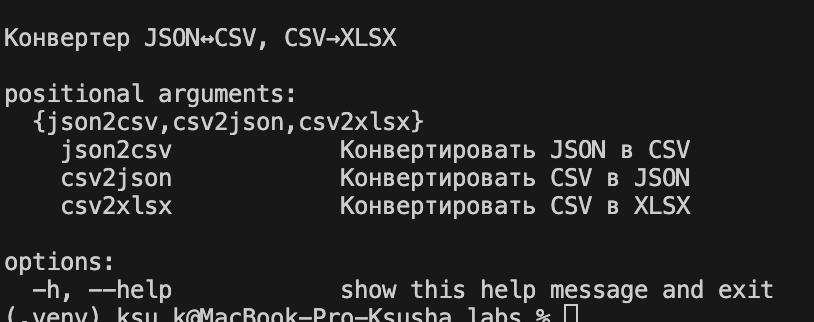
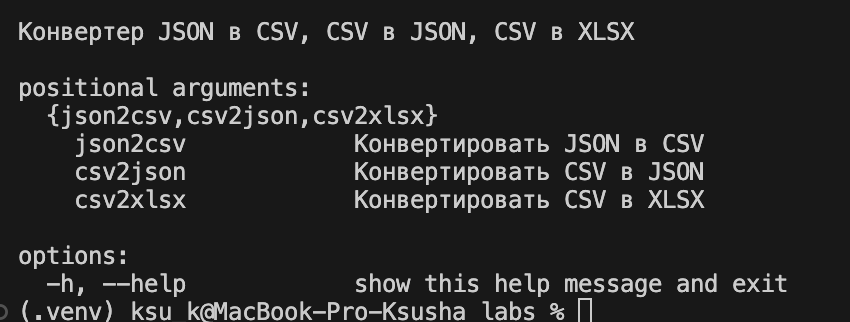
lab

Changed region(s): [[0.0, 0.2484, 0.86, 0.6832], [0.0, 0.7764, 0.9521, 1.0], [0.0, 0.0621, 0.7678, 0.1553]]

diff --git a/src/lab06/cli_convert.py b/src/lab06/cli_convert.py
@@ -19,7 +19,7 @@ except ImportError:
 
 
 def main():
-    parser = argparse.ArgumentParser(description="Конвертер JSON↔CSV, CSV→XLSX")
+    parser = argparse.ArgumentParser(description="Конвертер JSON в CSV, CSV в JSON, CSV в XLSX")
     sub = parser.add_subparsers(dest="cmd")
 
     # json → csv

diff --git a/README.md b/README.md
@@ -771,9 +771,8 @@ except ImportError:
     sys.path.append(os.path.dirname(os.path.dirname(__file__)))
     from lab05.csv_xlsx import *
 
-
 def main():
-    parser = argparse.ArgumentParser(description="Конвертер JSON↔CSV, CSV→XLSX")
+    parser = argparse.ArgumentParser(description="Конвертер JSON в CSV, CSV в JSON, CSV в XLSX")
     sub = parser.add_subparsers(dest="cmd")
 
     # json → csv
